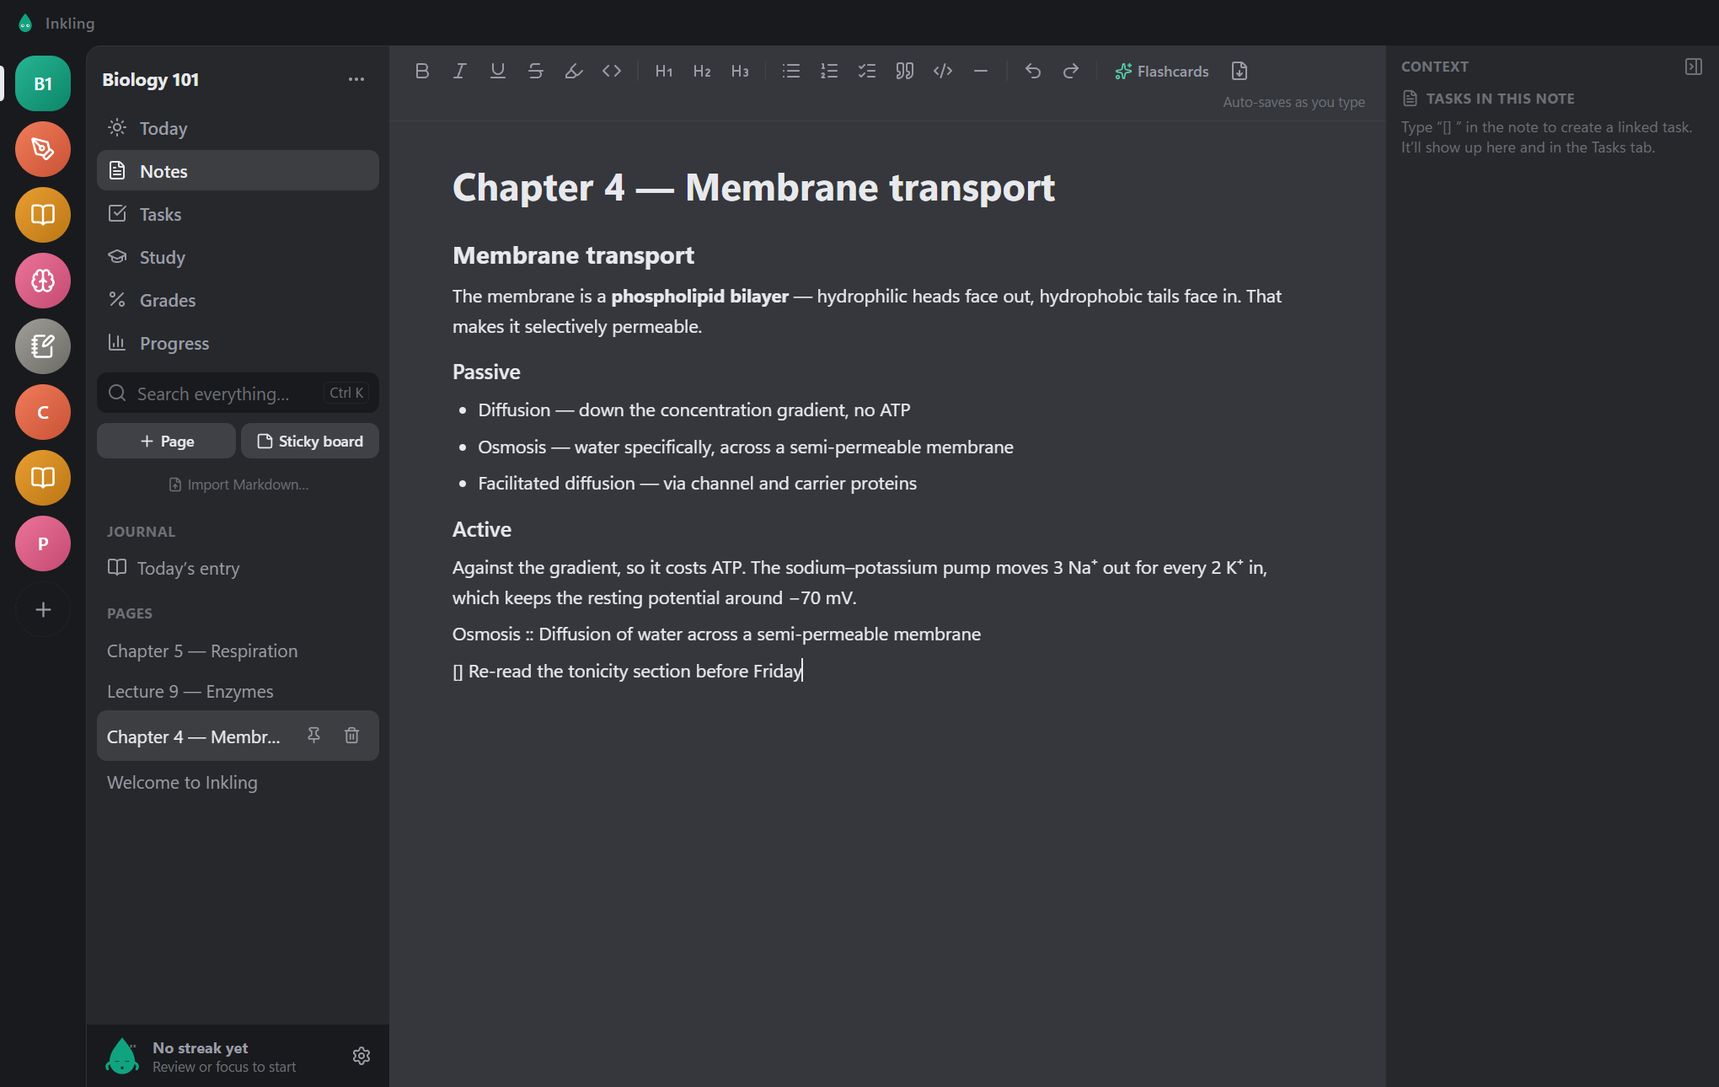
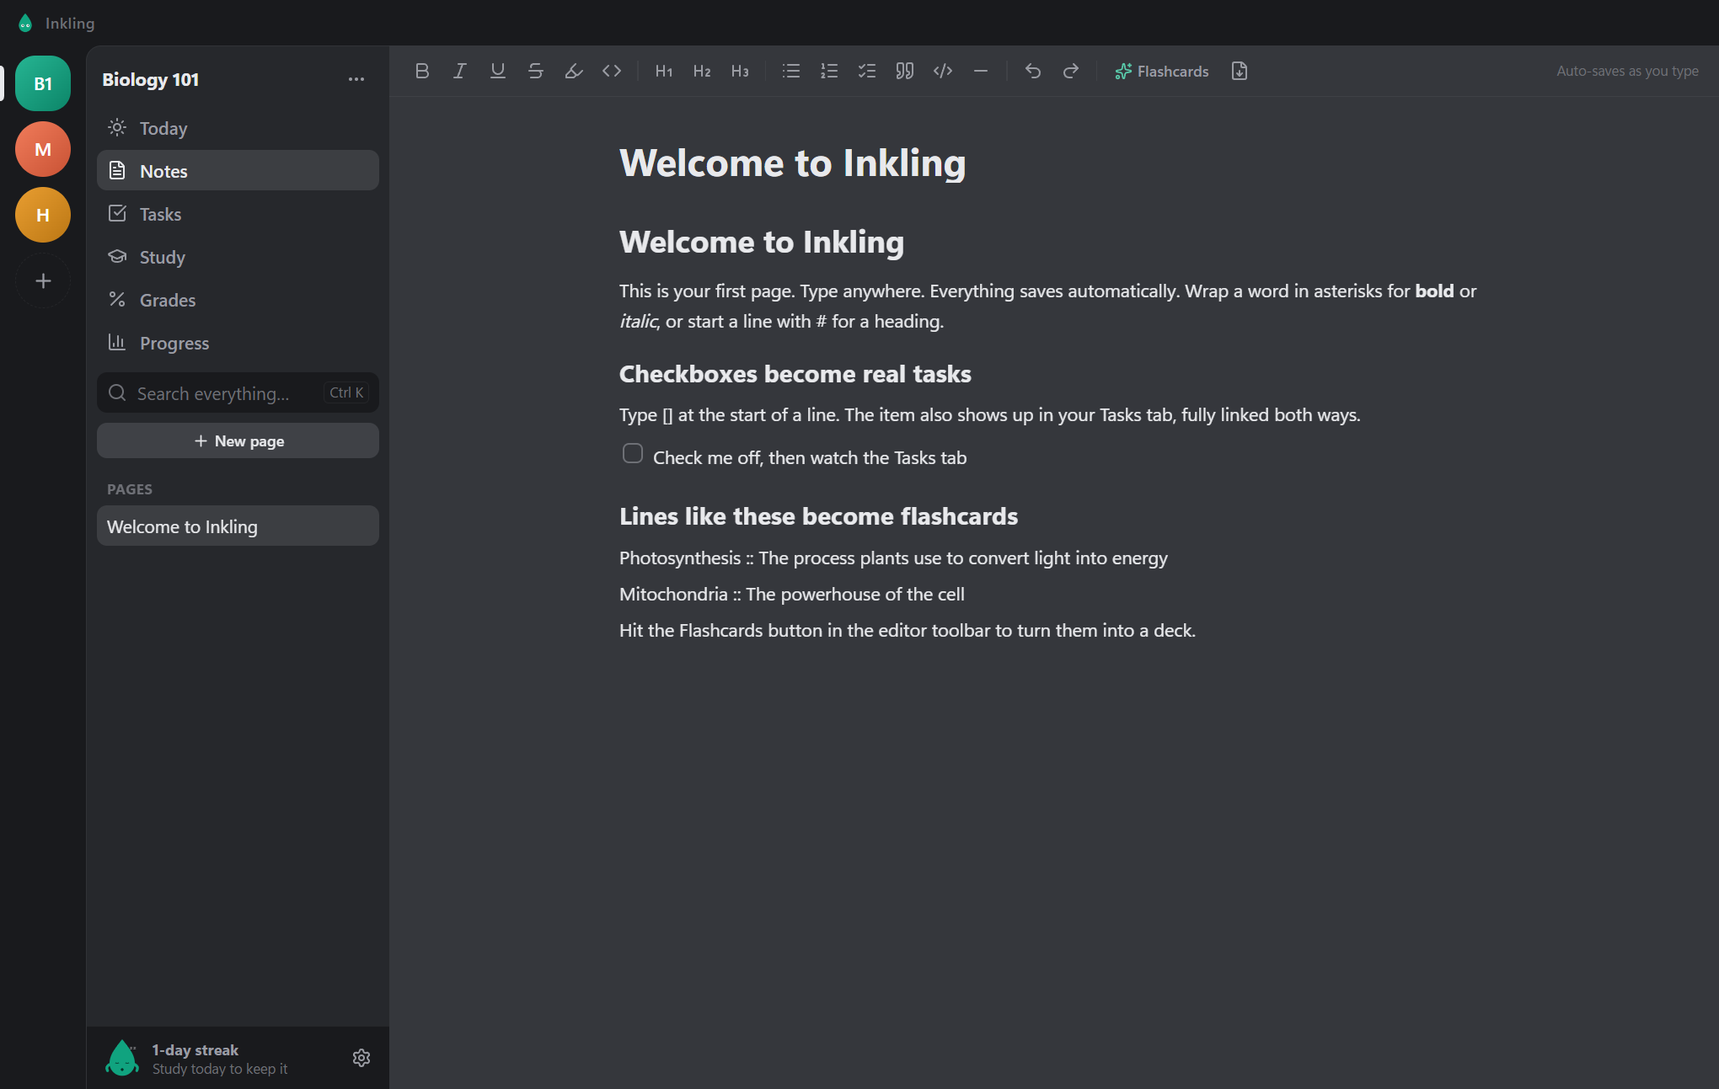
Refresh the docs and screenshots for the smaller app

diff --git a/README.md b/README.md
@@ -5,8 +5,8 @@
 <br />
 
 [![CI](https://github.com/dominikkoenitzer/Inkling/actions/workflows/ci.yml/badge.svg)](https://github.com/dominikkoenitzer/Inkling/actions/workflows/ci.yml)
-[![tests](https://img.shields.io/badge/tests-166%20passing-10A37F)](test)
-[![Electron](https://img.shields.io/badge/Electron-43-47848F?logo=electron&logoColor=white)](https://www.electronjs.org/)
+[![tests](https://img.shields.io/badge/tests-101%20passing-10A37F)](test)
+[![Electron](https://img.shields.io/badge/Electron-44-47848F?logo=electron&logoColor=white)](https://www.electronjs.org/)
 [![React](https://img.shields.io/badge/React-19-20232A?logo=react&logoColor=61DAFB)](https://react.dev/)
 [![TypeScript](https://img.shields.io/badge/TypeScript-6-3178C6?logo=typescript&logoColor=white)](https://www.typescriptlang.org/)
 [![better-sqlite3](https://img.shields.io/badge/better--sqlite3-FTS5-003B57?logo=sqlite&logoColor=white)](https://github.com/WiseLibs/better-sqlite3)
@@ -14,7 +14,7 @@
 [![Release](https://img.shields.io/github/v/release/dominikkoenitzer/Inkling?color=10A37F)](https://github.com/dominikkoenitzer/Inkling/releases/latest)
 [![Platforms](https://img.shields.io/badge/platforms-Windows%20%C2%B7%20macOS%20%C2%B7%20Linux-10A37F)](https://github.com/dominikkoenitzer/Inkling/releases/latest)
 
-**A warm, local-first desktop app that makes studying fun: open it and it tells you exactly what to do today. Review these cards, finish that task, give your weakest subject some love.**
+A warm, local-first desktop app that makes studying fun: open it and it tells you exactly what to do today. Review these cards, finish that task, give your weakest subject some love.
 
 [Download](https://github.com/dominikkoenitzer/Inkling/releases/latest) · [Features](#the-six-modules) · [Getting started](#getting-started) · [Architecture](#project-layout)
 
@@ -28,12 +28,12 @@
 
 ## Why Inkling
 
-The hardest part of studying isn't the studying, it's knowing what to do right now. Inkling assembles a **daily plan** from things you already track (due flashcards, open tasks, your weakest subject) and cross-links everything, so one piece of content flows everywhere:
+The hardest part of studying isn't the studying, it's knowing what to do right now. Inkling assembles a daily plan from things you already track (due flashcards, open tasks, your weakest subject), and one piece of content flows everywhere:
 
-> A page of *Chapter 4 notes* can hold a checkbox (`[] Finish reading by Friday`) that becomes a **real task** in your **Today plan**, while its `Term :: Definition` lines turn into **flashcards**, all from the same text, no duplicate entry.
+> A page of *Chapter 4 notes* can hold a checkbox (`[] Finish reading by Friday`) that becomes a real task in your Today plan, while its `Term :: Definition` lines turn into flashcards, all from the same text, no duplicate entry.
 
 - **A plan, not a blank page**. Open the app and know exactly what to study today
-- **Proof you're getting better**. Every review is logged, so Inkling can show your retention, your activity, and what's coming
+- **Proof you're getting better**. Every review is logged, so Inkling can show your retention and your activity
 - **Zero friction to capture**. New note is one keystroke, no forced title, no save button
 - **Local-first**. Everything works fully offline; your data is a single SQLite file on your machine
 - **Friendly, not corporate**. Warm *Cozy* theme, an original mascot (Inky), streaks and confetti, zero dark patterns
@@ -45,33 +45,33 @@ The hardest part of studying isn't the studying, it's knowing what to do right n
 ### Today
 <img src="docs/today.png" width="880" alt="Inkling: Today view with an auto-generated daily study plan" />
 
-An **auto-generated daily study plan**: due flashcard decks, tasks due today, your lowest-averaging subject, and a suggested focus block, each with a one-click start. Clear the plan, get confetti. That's the whole loop.
+An auto-generated daily study plan: due flashcard decks, tasks due today, your lowest-averaging subject, and a suggested focus block, each with a one-click start. Clear the plan, get confetti. That's the whole loop.
 
 ### Notes
-TipTap rich-text **pages** (toolbar *and* live markdown shortcuts: `#`, `-`, `1.`, `>`, `**bold**`, `[]`) plus a freeform **sticky board** you can drag, resize, and recolor. Auto-saves as you type (debounced, flushed on blur).
+TipTap rich-text pages (toolbar *and* live markdown shortcuts: `#`, `-`, `1.`, `>`, `**bold**`, `[]`). Auto-saves as you type (debounced, flushed on blur).
 
-Notes cross-link: type `[[Chapter 4]]` to link another page. If it doesn't exist yet, it's created, so you can link as you write, and the context panel shows everything **linked from** elsewhere. `#hashtags` anywhere in your text become filters in the sidebar. Deleting a page moves it to a **trash** you can undo from.
+Deleting a page is undoable from the toast that follows it, and `Ctrl+K` searches every page, task and deck at once.
 
 ### Tasks
-<img src="docs/tasks.png" width="880" alt="Inkling: tasks view with smart views and priority flags" />
+<img src="docs/tasks.png" width="880" alt="Inkling: tasks view grouped by due date" />
 
-List **and** kanban board, due dates, priorities, subtasks, and **Today / This Week** smart views that aggregate across every notebook. Typing `[]` in a note creates a real, bidirectionally-linked task.
+One list, grouped by when things are due: overdue, today, upcoming, someday, done. A due date and a checkbox, nothing else to fill in. Typing `[]` in a note creates a real, bidirectionally-linked task, and what is due this week sits in the sidebar of your Today plan.
 
 ### Study
 <img src="docs/study.png" width="880" alt="Inkling: study view with a flashcard deck and Pomodoro timer" />
 
-**FSRS-4.5 spaced-repetition flashcards** (Again / Hard / Good / Easy, keys 1–4), each button showing the interval it would buy. FSRS models two things per card, **stability** (how long until your recall chance falls to 90%) and **difficulty**, instead of SM-2's single "ease factor", so it schedules for a **recall target you choose** (85 / 90 / 95%) rather than an arbitrary multiplier.
+FSRS-4.5 spaced-repetition flashcards (Again / Hard / Good / Easy, keys 1–4), each button showing the interval it would buy. FSRS models two things per card, stability (how long until your recall chance falls to 90%) and difficulty, instead of SM-2's single "ease factor", so it schedules for a real 90% recall target rather than an arbitrary multiplier.
 
-Also here: one-click deck creation from `Term :: Definition` lines in a note, **CSV/TSV import** for Quizlet and Anki exports, a **Pomodoro focus timer** linked to a task or deck, and a gentle, non-punishing **study streak**. The timer stays visible in the Discord-style **user bar** at the bottom of the sidebar, wherever you are in the app.
+Also here: one-click deck creation from `Term :: Definition` lines in a note, a Pomodoro focus timer linked to a task or deck, and a gentle, non-punishing study streak. The timer stays visible in the Discord-style user bar at the bottom of the sidebar, wherever you are in the app.
 
 ### Grades
 <img src="docs/grades.png" width="880" alt="Inkling grade tracker: Swiss 1–6 scale with weighted average and pass status" />
 
-Log assessments per subject and pick **your** grading system: **Swiss 1–6** (6 is best, 4 is a pass), **US letters + 4.0 GPA**, or plain **percentages**. Weighted averages per subject, an overall figure across subjects, and a "give this subject some love" nudge in your Today plan.
+Log assessments per subject and pick your scale: Swiss 1–6 (6 is best, 4 is a pass) or plain percentages, recorded per row so switching the view never reinterprets an old grade. Weighted averages per subject, an overall figure across subjects, and a "give this subject some love" nudge in your Today plan.
 
 ### Progress
 
-Every card you answer is written to a permanent review log, which makes the whole picture available: a six-month **activity heatmap**, your **true retention** (how often a card that was genuinely due came back to you), reviews and focused hours, current and longest streak, a **14-day forecast** of what's coming due, an Again/Hard/Good/Easy split, and a per-subject table. Nothing here is a guess, it's all read back out of what you actually did.
+Every card you answer is written to a permanent review log. Progress reads it back: reviews, true retention (how often a card that was genuinely due came back to you), focused hours, your streak, and a six-month activity heatmap. All of it measured, none of it estimated.
 
 ---
 
@@ -79,19 +79,15 @@ Every card you answer is written to a permanent review log, which makes the whol
 
 | Feature | What it does |
 |---|---|
-| **Command palette** | `Ctrl+K` fuzzy search across notes, tasks, and decks (SQLite **FTS5**) + quick actions |
-| **Global quick-add** | `Ctrl+Alt+N` popup with natural-date detection, *“essay draft friday at 5pm”* |
-| **Wiki-links** | `[[Page name]]` links notes together and creates the page if it's new; backlinks in the context panel |
-| **Tags** | `#hashtags` in your text become sidebar filters, with no separate tagging UI to keep in sync |
-| **Trash + undo** | Deleting a note is recoverable for 30 days, with an immediate **Undo** |
-| **Import** | Markdown files → pages; CSV/TSV (Quizlet, Anki, a spreadsheet) → a deck, delimiter auto-detected |
-| **Themes** | Sleek **Dark** + warm **Cozy**, high-contrast mode, adjustable font size |
-| **Onboarding** | 3-step first-launch flow with Inky; sensible starter notebooks for school/work/personal |
+| **Command palette** | `Ctrl+K` fuzzy search across notes, tasks, and decks (SQLite FTS5) + quick actions |
+| **Undo** | Deleting a note is undoable from the toast, and the row is only cleared for good 30 days later |
+| **Themes** | Sleek Dark + warm Cozy, adjustable font size |
+| **First run** | No wizard: one notebook and a welcome page, ready to type in |
 | **Inky the mascot** | Original SVG character: idle bob, blink, cursor-tracking eyes, celebratory bounces |
-| **User bar** | Discord-style panel at the bottom of the sidebar: Inky, your streak, a **live Pomodoro chip** (pause/resume anywhere), settings |
-| **Notebook covers** | Every notebook gets a color **and** a monochrome icon glyph (flask, calculator, globe and so on) shown on its Discord-style squircle |
+| **User bar** | Discord-style panel at the bottom of the sidebar: Inky, your streak, a live Pomodoro chip (pause/resume anywhere), settings |
+| **Notebook covers** | Every notebook gets a color and its initials on a Discord-style squircle |
 | **Data safety** | WAL-mode SQLite with rolling local backups (last 5), crash-safe writes |
-| **Export** | Turn any note, or a whole notebook, into portable **Markdown** (`.md`) or a print-styled **PDF** |
+| **Export** | Turn any note into portable Markdown (`.md`) |
 | **Auto-update** | Packaged builds check GitHub Releases and update themselves (electron-updater) |
 | **Secure by default** | `contextIsolation: true`, `nodeIntegration: false`, DB access only via the preload IPC bridge |
 
@@ -100,10 +96,8 @@ Every card you answer is written to a permanent review log, which makes the whol
 | Shortcut | Action |
 |---|---|
 | `Ctrl` + `K` | Command palette / search |
-| `Ctrl` + `Alt` + `N` | Global quick-add popup |
 | `Ctrl` + `,` | Settings |
 | `#`, `-`, `1.`, `>`, `[]` | Markdown block shortcuts (in the editor) |
-| `[[` … `]]` | Link another page (creates it if the title is new) |
 | `Ctrl` + `B` / `I` / `U` | Bold / italic / underline |
 | `Space` then `1`–`4` | Reveal card, then grade (Again / Hard / Good / Easy) |
 
@@ -111,7 +105,7 @@ Every card you answer is written to a permanent review log, which makes the whol
 
 ## Themes
 
-Pick the sleek **Dark** theme or the warm **Cozy** one, with a high-contrast mode and adjustable font size on top.
+Pick the sleek Dark theme or the warm Cozy one, with adjustable font size on top.
 
 | Dark | Cozy |
 |:---:|:---:|
@@ -123,24 +117,23 @@ Pick the sleek **Dark** theme or the warm **Cozy** one, with a high-contrast mod
 
 | Layer | Choice |
 |---|---|
-| Shell | **Electron 43** (electron-vite) |
-| UI | **React 19 + TypeScript** |
-| Styling | **Tailwind CSS 4** (CSS-first `@theme`) + CSS variables |
-| Editor | **TipTap 3** (ProseMirror) + a custom `[[wiki-link]]` node |
-| State | **Zustand** (per-module stores) |
-| Database | **better-sqlite3** + typed repositories, **FTS5** search |
-| Drag & drop | **dnd-kit** (kanban) + hand-rolled pointer drags (sticky board) |
-| Dates | **date-fns** |
-| Spaced repetition | Custom **FSRS-4.5** implementation (`src/shared/fsrs.ts`) |
-| Icons | **lucide-react** |
-| Tests | **Vitest**, 166 tests (FSRS, grade math, streaks, parsing, import/export round-trips, tags, colors) |
-| CI / Packaging | **GitHub Actions** · **electron-builder** (NSIS) |
+| Shell | Electron 44 (electron-vite) |
+| UI | React 19 + TypeScript |
+| Styling | Tailwind CSS 4 (CSS-first `@theme`) + CSS variables |
+| Editor | TipTap 3 (ProseMirror) with task items that carry their task's id |
+| State | Zustand (per-module stores) |
+| Database | better-sqlite3 + typed repositories, FTS5 search |
+| Dates | date-fns |
+| Spaced repetition | Custom FSRS-4.5 implementation (`src/shared/fsrs.ts`) |
+| Icons | lucide-react |
+| Tests | Vitest, 101 tests (FSRS, grade math, streaks, parsing, Markdown export, colors) |
+| CI / Packaging | GitHub Actions · electron-builder (NSIS) |
 
 ---
 
 ## Getting started
 
-Uses **[Bun](https://bun.sh)** as the package manager / script runner (npm works too). Electron runs the app on its own embedded Node. Bun just installs and orchestrates.
+Uses [Bun](https://bun.sh) as the package manager / script runner (npm works too). Electron runs the app on its own embedded Node. Bun just installs and orchestrates.
 
 ```bash
 bun install     # also rebuilds better-sqlite3 for Electron (postinstall)
@@ -152,13 +145,14 @@ Everyday scripts:
 ```bash
 bun run typecheck   # tsc across renderer + main/preload
 bun run test        # vitest unit suite
+bun run smoke       # end-to-end: drives the built app through IPC on a throwaway profile
 bun run build       # production bundle
 bun run dist        # Windows installer (NSIS) → release/
 ```
 
-Prefer a prebuilt binary? Grab the latest installer for **Windows (`.exe`)**, **macOS (`.dmg`, universal, Intel + Apple Silicon)**, or **Linux (`.AppImage`)** from the [**Releases**](https://github.com/dominikkoenitzer/Inkling/releases/latest) page, each platform is built and attached automatically by the [release workflow](.github/workflows/release.yml).
+Prefer a prebuilt binary? Grab the latest installer for Windows (`.exe`), macOS (`.dmg`, universal, Intel + Apple Silicon), or Linux (`.AppImage`) from the [Releases](https://github.com/dominikkoenitzer/Inkling/releases/latest) page, each platform is built and attached automatically by the [release workflow](.github/workflows/release.yml).
 
-> **Note:** `trustedDependencies` in `package.json` lets Bun run the postinstall scripts of `electron` (binary download) and `better-sqlite3`, don't remove it.
+> Note: `trustedDependencies` in `package.json` lets Bun run the postinstall scripts of `electron` (binary download) and `better-sqlite3`, don't remove it.
 
 ---
 
@@ -166,22 +160,21 @@ Prefer a prebuilt binary? Grab the latest installer for **Windows (`.exe`)**, **
 
 ```
 src/main       Electron main: db.ts (schema/migrations/backups), ipc.ts, index.ts
-src/main/repos the data layer, one module per domain: notebooks, notes, tags, links,
-               tasks, flashcards, focus, streak, grades, stats, search, onboarding;
+src/main/repos the data layer, one module per domain: notebooks, notes, tasks,
+               flashcards, focus, streak, grades, stats, search, onboarding;
                index.ts re-exports them, so callers still just `import * as repos`
 src/preload    contextBridge → window.inkling (typed via src/shared/api.ts)
 src/renderer   React app: stores/ (zustand), components/{shell,today,notes,tasks,study,grades,stats}, lib/
 src/shared     types + API contract + the pure logic both processes use:
-               fsrs.ts (scheduler), grades.ts, streaks.ts, tags.ts, markdown.ts /
-               markdownImport.ts, deckImport.ts, tiptapHtml.ts
+               fsrs.ts (scheduler), grades.ts, streaks.ts, markdown.ts
 test           Vitest suites for everything in src/shared
 ```
 
 Data lives in a single WAL-mode SQLite file in `%APPDATA%/Inkling`, with a `backups/` folder beside it. Fully offline. Nothing leaves your machine.
 
-The schema is versioned via `PRAGMA user_version` and migrated on open (currently **v7**); every migration is additive, and a backup is written before each launch's migration runs.
+The schema is versioned via `PRAGMA user_version` and migrated on open (currently v9); a backup is written before each launch's migration runs.
 
-**Anything that isn't I/O lives in `src/shared` and is unit-tested.** The FSRS scheduler takes `now` as an argument and returns a plain object; the Markdown importer and exporter are pure functions that round-trip against each other. That's what keeps the interesting logic testable without an Electron window.
+Anything that isn't I/O lives in `src/shared` and is unit-tested. The FSRS scheduler takes `now` as an argument and returns a plain object; the Markdown exporter and the deck importer are pure functions. That's what keeps the interesting logic testable without an Electron window.
 
 ### Dev / test hooks
 
@@ -194,19 +187,24 @@ The main process reads a few env vars for isolated, reproducible runs:
 | `INKLING_SCREENSHOT=<file.png>` | Capture the window and exit |
 | `INKLING_EVAL=<js>` | Run JS in the renderer before capture (`window.__app` exposes the store) |
 
+`bun run smoke` builds on those hooks: it launches the packaged main process against an
+isolated profile and runs twelve checks through the real preload bridge, covering the note
+to task bridge, search, undo, FSRS scheduling, grades, focus minutes, the streak and the
+review log. Unit tests cover the pure logic; this covers the wiring between the processes.
+
 ---
 
 ## Roadmap
 
-- [x] Four pillars, command palette, quick-add, themes, onboarding, mascot
+- [x] Four pillars, command palette, themes, mascot
 - [x] SM-2 flashcards, Pomodoro, streak
 - [x] CI + Windows, macOS & Linux installers (built automatically on release)
-- [x] Markdown & PDF export (per note or whole notebook)
-- [x] Grade tracker (weighted averages, letter grades, GPA)
+- [x] Markdown export
+- [x] Grade tracker (weighted averages per subject)
 - [x] Auto-update (electron-updater) + universal macOS build (Intel + Apple Silicon)
-- [x] Today view (auto-generated daily study plan), grading systems (Swiss 1–6 / US / %), notebook icon covers, user bar
-- [x] Review history + Progress view (heatmap, true retention, forecast) and **FSRS-4.5** scheduling
-- [x] Wiki-links with backlinks, `#tags`, Markdown & CSV import, trash with undo
+- [x] Today view (auto-generated daily study plan), Swiss 1–6 and percentage grading, user bar
+- [x] Review history + Progress view (activity heatmap, true retention) and FSRS-4.5 scheduling
+- [x] Undoable deletes
 - [ ] Fit FSRS parameters to your own review log instead of the published defaults
 - [ ] Optional end-to-end-encrypted cloud sync
 - [ ] Mobile companion

diff --git a/CHANGELOG.md b/CHANGELOG.md
@@ -4,6 +4,62 @@ All notable changes to Inkling are documented here. The format is based on
 [Keep a Changelog](https://keepachangelog.com/), and this project adheres to
 [Semantic Versioning](https://semver.org/).
 
+## [Unreleased]
+
+Inkling had grown a second way to do most things. This keeps one of each. No notes, tasks,
+decks, grades or review history were touched.
+
+### Removed
+- The sticky board. Existing stickies become ordinary pages on first launch.
+- The kanban board in Tasks, and `@dnd-kit` with it. The grouped list stays.
+- `#hashtags`, their sidebar chips and the context-panel block.
+- The journal notebook and its "Today's entry" shortcut.
+- Notebook icon glyphs. A notebook is a colour and its initials.
+- The recall-target setting. FSRS schedules for 90%.
+- High-contrast mode, and the font-size setting.
+- Markdown import, and CSV/TSV deck import. `Term :: Definition` lines in a note still
+  build a deck.
+- The trash browser. Deleting a page is still undoable from the toast and still cleared
+  for good after 30 days.
+- Progress panels: the 14-day forecast, the rating split, the stability readout, the
+  subject table and the window switcher. Reviews, true retention, focused time, the streak
+  and the activity heatmap remain.
+- Both Tasks smart views, and the context panel's "Upcoming" block. What is due this week
+  is in the Today sidebar.
+- The global quick-add window (`Ctrl+Alt+N`), its second renderer bundle and the date parser.
+- `[[wiki-links]]` and backlinks. Labels you already typed stay as plain text.
+- PDF export. Markdown export stays.
+- The onboarding wizard. First launch makes a notebook and a welcome page.
+- The "Doing" task status, task priorities and subtasks. A task is a title, a due date and
+  a checkbox.
+- US letters and the 4.0 GPA scale. Swiss 1-6 and percentages remain, and rows entered
+  under the US setting read as percentages, which is what they always were.
+- Pinned notes, and the Progress numbers in the sidebar.
+- Every emoji in the interface.
+
+### Fixed
+- A fresh install could not open its database. New databases were created at the oldest
+  schema version and then walked through every migration since, and those steps reference
+  columns the current schema no longer has. A new database is now created in its current
+  shape; upgrades still replay what they need.
+
+### Added
+- `bun run smoke`: launches the built app against a throwaway profile and runs twelve
+  checks through the real IPC bridge, covering the note-to-task bridge, search, undo, FSRS
+  scheduling, grades, focus minutes, the streak and the review log. CI runs it too, under
+  xvfb, so a broken fresh install fails the build instead of a release.
+
+### Changed
+- The context panel is the selected task's detail view. No selection, no panel.
+- Schema `user_version` 10 drops the columns the removed features left behind and
+  normalises rows still carrying `in_progress` or the US grading system.
+- Screenshots in `docs/` regenerated against the current app.
+- The editor is loaded when a page is opened rather than at startup. TipTap and ProseMirror
+  were two thirds of the renderer bundle while the app opens on Today: 1881 kB down to
+  819 kB, with the editor's 1065 kB fetched on demand.
+- 9.8k lines of source down to 6.5k, 65 IPC handlers down to 48, one renderer bundle
+  instead of two.
+
 ## [0.5.0] - 2026-08-17
 
 **A face.** The logo was Inky with his face deleted, the same droplet path as the mascot,
